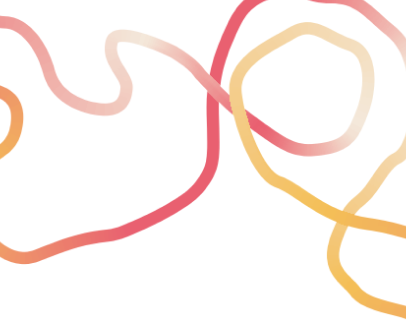
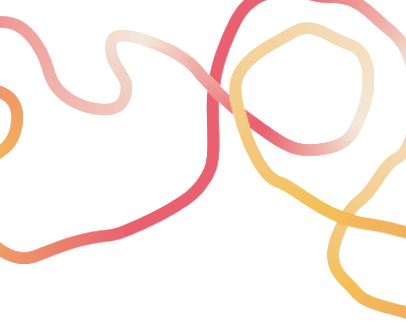
ajout PWA manifest

diff --git a/app/layout.tsx b/app/layout.tsx
@@ -20,6 +20,14 @@ export default function RootLayout({
 }) {
   return (
     <html lang="fr">
+      <head>
+        <link rel="manifest" href="/manifest.json" />
+        <link rel="apple-touch-icon" href="/icon-512.png" />
+        <meta name="theme-color" content="#1B3A4B" />
+        <meta name="apple-mobile-web-app-capable" content="yes" />
+        <meta name="apple-mobile-web-app-status-bar-style" content="default" />
+        <meta name="apple-mobile-web-app-title" content="DigestKit" />
+      </head>
       <body className={`${raleway.variable} min-h-screen bg-white text-slate-900 antialiased`}>
         {children}
       </body>